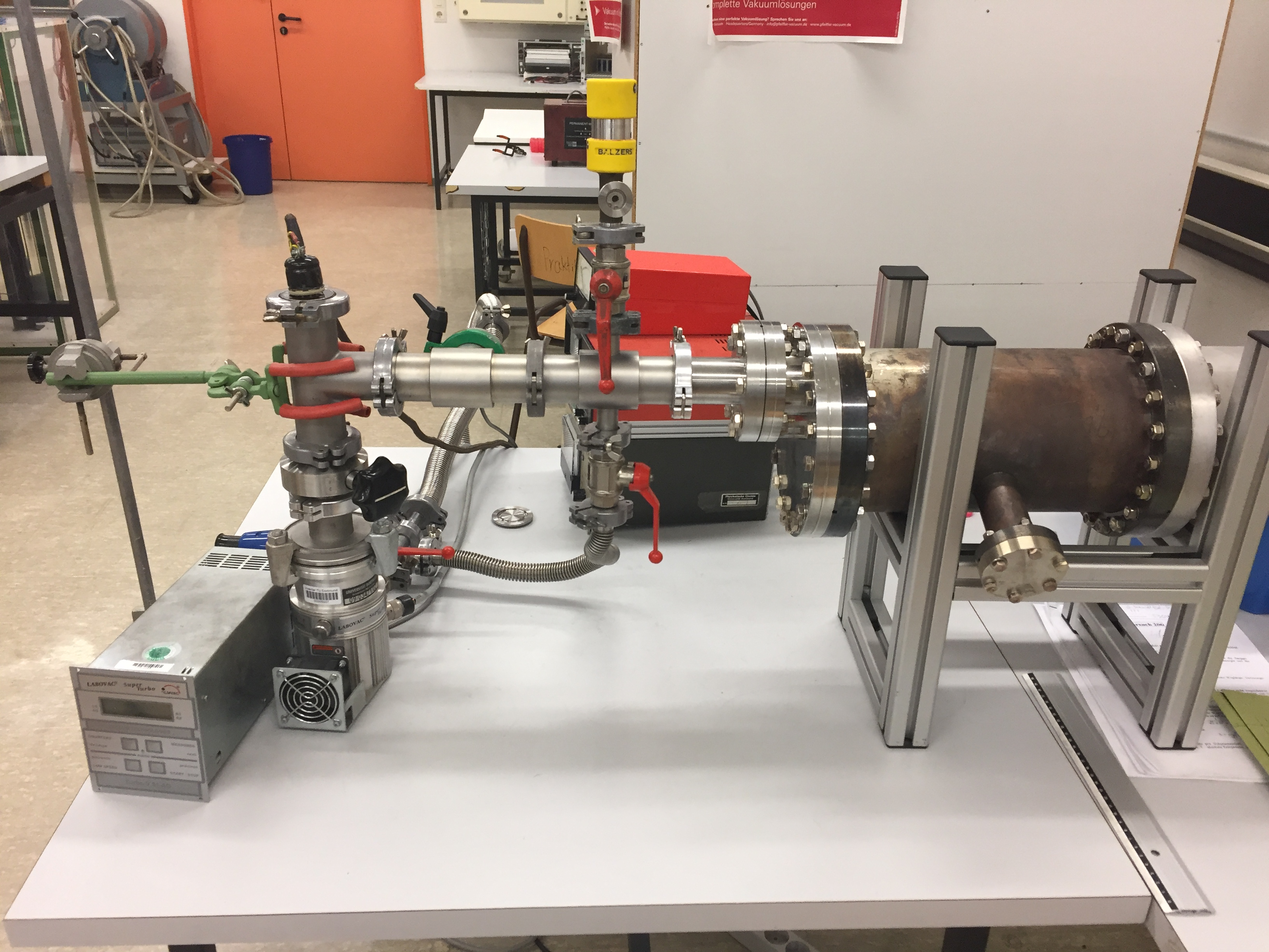
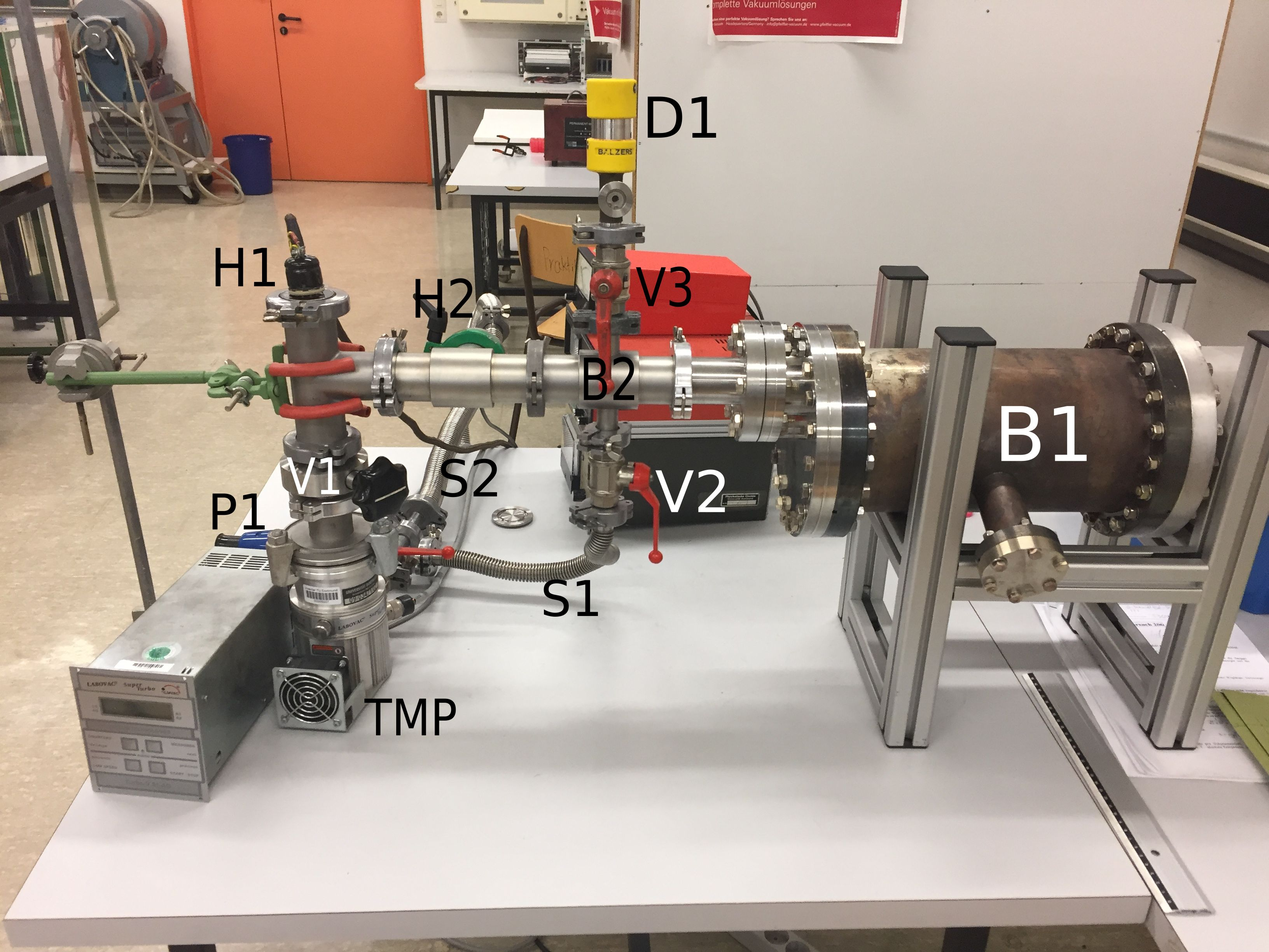
fertige durchfuehrung

diff --git a/V70-Vakuum/content/durchfuehrung.tex b/V70-Vakuum/content/durchfuehrung.tex
@@ -1,4 +1,3 @@
-\newpage
 \section{Durchführung}
 \label{sec:Durchführung}
 
@@ -6,7 +5,43 @@
 Der Pupmstand ist wie in Abbildung \ref{fig:Aufbau} aufgebaut. Hier ist es wichtig
 möglichst genau zu arbeiten, da sonst Fehler durch Lecks an Gummis und Flanschen
 entstehen.
+\begin{figure}
+  \begin{subfigure}[c]{0.5\textwidth}
+    \includegraphics[width=\textwidth]{IMG_6888.JPG}
+  \end{subfigure}
+  \begin{subfigure}[c]{0.5\textwidth}
+    \includegraphics[width=\textwidth]{IMG_6889.JPG}
+  \end{subfigure}
+  \caption{Aufbau des Pumpstandes und Beschriftung der Einzelteile.}
+  \label{fig:Aufbau}
+\end{figure}
 
+Dabei wurden diejenigen Teile verwendet, die aus Tabelle \ref{tab:Teile} bzw. Abbildung
+\ref{fig:Teile} zu entnehmen sind.
+
+\begin{figure}
+  \centering
+  \includegraphics[width=0.4\textwidth]{IMG_6891.JPG}
+  \caption{Verwendete Teile zum aufbau des Pumpstandes.}
+  \label{fig:Teile}
+\end{figure}
+
+\begin{table}
+  \caption{Verwendete Bauteile zum Aufbeu des zur Messung verwendeten Pumpstandes \cite{anleitung}.}
+  \label{tab:Teile}
+  \begin{tabular}{cccc}
+    \toprule
+    Abkürzung & Bezeichnung/Name |& Abkürzung & Bezeichnung/Name \\
+    \midrule
+    S1 & Schlauch 1 &| D1 & Dosierventil 1 \\
+    S2 & Schlauch 2 &| P1 & analoges Pirani Druckmessgerät \\
+    B1 & großer Rezipient &| B2 & Bauteil \\
+    B3 & Bauteil &| B4 & Bauteil \\
+    B5 & Bauteil &| B6 & Bauteil \\
+    V1 & Klappenventil &| V2 & Kugelventil 2 \\
+    V3 & Kugelventil 3 &| V4 & Kugelventil 4 \\
+  \end{tabular}
+\end{table}
 Zuerst wird der Pumpstand mit der Drehschieberpumpe evakuiert. Nach ungefähr 10$\,$min
 stellt sich ein Druck von $\SI{5e-2}{\milli\bar}$ ein und die TMP kann hinzugeschaltet
 werden.
@@ -14,19 +49,40 @@ Jetzt kann das Glühkathoden Vakuummeter eingeschaltet werden. Nun kann der Rezi
 ca. 10$\,$min der Rezipient mit dem Heißluftföhn erhitzt werden. Das führt dazu,
 dass Wasserablagerungen im Rezipienten verdampfen und so die Desorptionsrate abnimmt.
 Wird ein Enddruck zwischen $\SIrange{2e-5}{8e-5}{\milli\bar}$ erreicht, so gilt der
-Aufbau als dicht und es kann mit den Mesungen begonnen werden.
+Aufbau als dicht und es kann mit den Messungen begonnen werden.
 
 \subsection{Messungen}
-Damit die Messung der Drehschieberpumpedurchgeführt werden kann, muss zuerst das
-Glühkathoden Vakuummeter abgeschaltet werden und die TMP am Ein- und Ausgang
-abgeschiebert werden.
-Nun kann das Ventil 5 geöffnet werden und die Messung beginnen. Dabei sollte der
-Druck nach der Belüftung bei $\SI{1000}{\milli\bar}$. Bei einer Leckratenmessung
-liegt ein Gleichgewichtsruck zwischen $\SIrange{0.1}{1000}{\milli\bar}$ vor.
+\subsection{Evakuierungskurve der Drehschieberpumpe}
+Zuerst wird die TMP durch das schließen von V1 und V5 abschiebert und V2 geöffnet.
+Bei laufender Drehschieberpumpe werden nun dir Belüftungsventile D1 und V3 geöffnet
+um den Rezipienten aus Atmosphärendruck zu bringen. Daraufhin werden die Belüftungsventile
+wieeder geschlossen und der Druckabfll gegen die zeit aufgenommen. Diese Messung wird
+5-mal durchgeführt.
+\subsection{Leckratenmessung der Drehschieberpumpe}
+Bei laufender Drehschieberpumpe wird durch D1 ein Gleichgewichtsdruck $p_\text{G}$
+im Rezipienten erzeugt und nach abschiebern von V4 der Druckanstieg mit der Zeit
+aufgenommen. Dies find für die Gleichgewichtsdrücke $p_\text{G}$ = {$\SI{0.1}{\milli\bar}$,
+$\SI{0.4}{\milli\bar}$, $\SI{0.8}{\milli\bar}$, $\SI{1.0}{\milli\bar}$} jeweils 3-mal
+durchgeführt.
 
-% \begin{figure}
-%   \centering
-%   \includegraphics[height=8.0cm]{content/Versuchsaufbau1.png}
-%   \caption{Bildunterschrift}
-%   \label{fig:Versuchsaufbau1}
-% \end{figure}
+Bevor nun die Messungen an der TMP durchgeführt werden können, muss diese wieder
+hinzugeschaltet werden. Dazu wird V1 und V5 geöffnet und V2 geschlossen. Wenn der
+Druck durch die Drehschieberpumpe unter $\SI{5e-5}{\milli\bar}$ gefallen ist, kann
+die TMP eingeschaltet werden.
+\subsection{Evakuierungsmessung der Turbomolukularpumpe}
+Bei laufender TMp wrd durch D1 ein Druck von $\SI{5e-3}{\milli\bar}$ eingestellt
+und nun D1 und V3 möglichst zeitgleich geschlossen. Der auftretende Druckabfall
+wird mit der Zeit aufgenommen. Diese Messung wird analog zu der bei der Drehschieberpumpe
+5-mal widerholt.
+\subsection{Leckratenmessung der Turbomolukuralpumpe}
+Analog zur Leckratenmessung  der Drehschieberpumpe wird auch hier mit Hilfe des Nadelentils
+D1 ein Gleichgewichtsdruck $p_\text{G}$ eingestellt und dann V1 geschlossen. Daraufhin
+kann der Druckanstieg über das Glühkathoden Vakuummeter und die Zeit aufgenommen werden.
+Diese Messung wird bei $p_\text{G}$ = ${\SI{5e-5}{\milli\bar}, \SI{10e-5}{\milli\bar},
+\SI{150e-5}{\milli\bar}, \SI{20e-5}{\milli\bar}}$ jeweils 3-mal durchgeführt.
+
+\subsection{Volumenbestimmung}
+Da sich das Volumen des Rezipienten aufgrund von geschlossenen Ventilen und Verbindungsstücken
+bei jeder Messreihe ein wenig ändert muss das Gesamtvolumen bestimmt werden. Dazu werden
+die verwendeten Teile nach dem Abbau des Pumpstandes mit Lineal und Schieblehre ausgemessen
+und bei der Volumenberechnung miteinbezogen.
